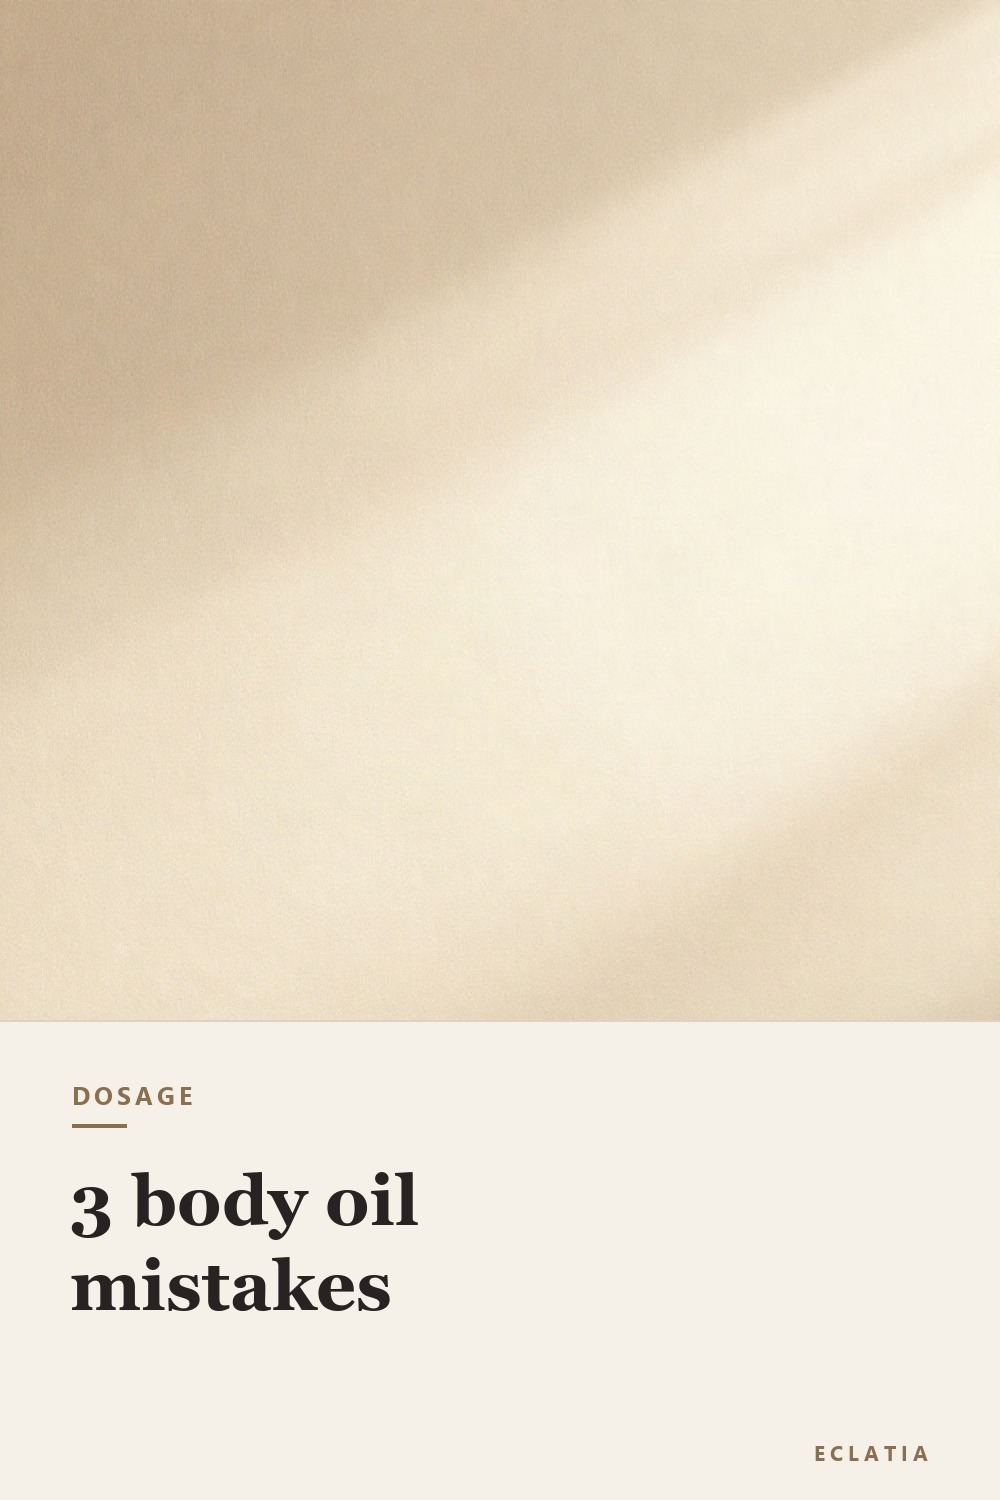
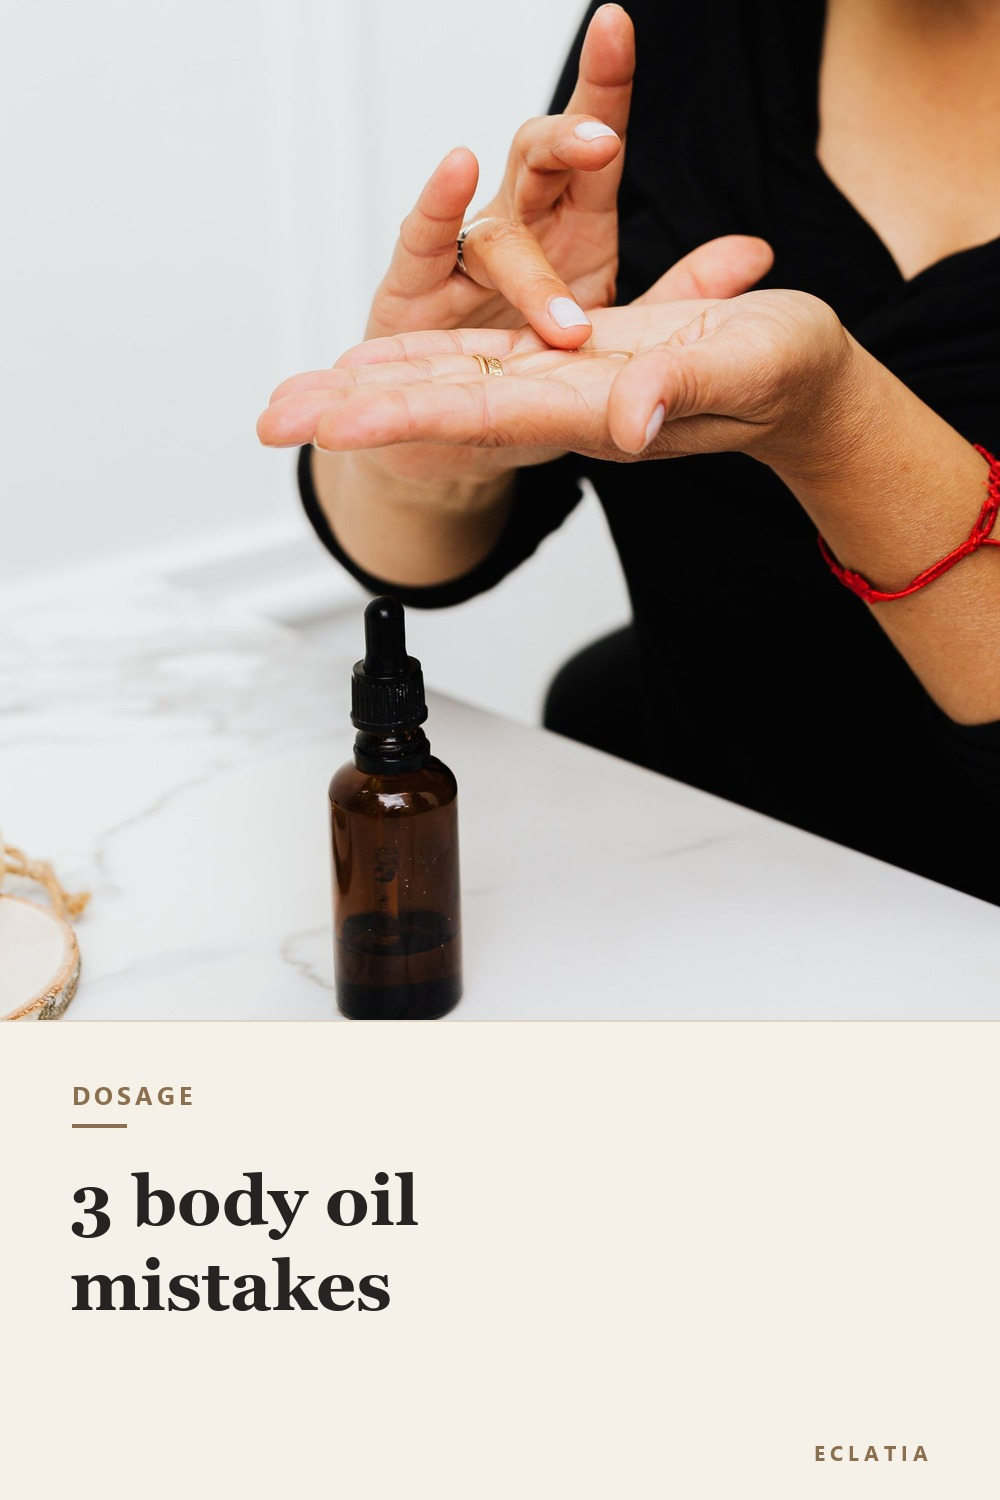
P10: visuel v2 (photo main + huile) au lieu du degrade vide

diff --git a/scripts/make_pins_p10.py b/scripts/make_pins_p10.py
@@ -1,0 +1,69 @@
+"""Compose le pin P10 (v2) : photo reelle (main + huile) au lieu du degrade vide.
+
+L'ancien visuel P10 etait un simple degrade beige : joli mais muet, il ne disait
+pas de quoi parlait le pin. Ici la photo montre une main qui recoit quelques
+gouttes d'huile d'un flacon ambre : c'est exactement le sujet du pin (le dosage).
+
+Aucune marque lisible sur la photo (flacon ambre uni, sans etiquette).
+
+Entree  : visuels/body-oil/base-P10.jpg  (Pexels 4959973, 1600 x 2400)
+Sortie  : visuels/body-oil/pin-P10.jpg + pin-P10.png (1000 x 1500)
+"""
+import os
+
+from PIL import Image, ImageDraw, ImageFont
+
+from make_pins_body_oil import ACCENT, CREAM, H, INK, LINE, SEGOE_B, W, fit_font, spaced
+
+BASE = os.path.join("docs", "contenus-a-valider", "visuels", "body-oil")
+PANEL_H = 480
+KICKER = "DOSAGE"
+LINES = ["3 body oil", "mistakes"]
+
+
+def crop_fill(img, w, h, top_frac=0.5):
+    r = max(w / img.width, h / img.height)
+    im = img.resize((round(img.width * r), round(img.height * r)), Image.LANCZOS)
+    left = (im.width - w) // 2
+    top = round((im.height - h) * top_frac)
+    top = max(0, min(top, im.height - h))
+    return im.crop((left, top, left + w, top + h))
+
+
+def build():
+    photo = crop_fill(
+        Image.open(os.path.join(BASE, "base-P10.jpg")).convert("RGB"), W, H - PANEL_H, 0.78
+    )
+    canvas = Image.new("RGB", (W, H), CREAM)
+    canvas.paste(photo, (0, 0))
+    d = ImageDraw.Draw(canvas)
+
+    d.rectangle([0, H - PANEL_H, W, H], fill=CREAM)
+    d.rectangle([0, H - PANEL_H, W, H - PANEL_H + 1], fill=LINE)
+
+    x = 72
+    spaced(d, (x, H - PANEL_H + 58), KICKER, ImageFont.truetype(SEGOE_B, 25), ACCENT, 4)
+    d.rectangle([x, H - PANEL_H + 104, x + 54, H - PANEL_H + 107], fill=ACCENT)
+
+    f, size = fit_font(d, LINES, W - 2 * x)
+    lh = round(size * 1.22)
+    y = H - PANEL_H + 140
+    for line in LINES:
+        d.text((x - 2, y), line, font=f, fill=INK)
+        y += lh
+
+    fs = ImageFont.truetype(SEGOE_B, 21)
+    label = "ECLATIA"
+    tw = sum(d.textlength(c, font=fs) + 5 for c in label) - 5
+    spaced(d, (W - x - tw, H - 62), label, fs, ACCENT, 5)
+
+    jpg = os.path.join(BASE, "pin-P10.jpg")
+    canvas.save(jpg, quality=92, optimize=True)
+    png = os.path.join(BASE, "pin-P10.png")
+    canvas.save(png, optimize=True)
+    print("ok", jpg, canvas.size, os.path.getsize(jpg) // 1024, "Ko")
+    print("ok", png, os.path.getsize(png) // 1024, "Ko")
+
+
+if __name__ == "__main__":
+    build()

diff --git a/docs/contenus-a-valider/pins/P10-a-publier.md b/docs/contenus-a-valider/pins/P10-a-publier.md
@@ -9,13 +9,25 @@
 
 | Champ | Valeur |
 |---|---|
-| **Image** | `docs/contenus-a-valider/visuels/body-oil/pin-P10.jpg` — 1000 × 1500 (2:3) |
+| **Image** | `docs/contenus-a-valider/visuels/body-oil/pin-P10.jpg` — 1000 × 1500 (2:3) · copie PNG : `pin-P10.png` |
 | **Titre** | `3 Body Oil Mistakes That Cancel the Benefit` |
 | **Description** | `Oil on dry skin. Lotion on top of the oil. Far too much product. Three habits that leave the surface greasy while the skin stays tight underneath, and the order that fixes it: lotion first, on damp skin, then a thin layer of oil only where it pulls. #bodyoil #dryskin #bodycare` |
 | **Lien** | `https://guide-beaute.pages.dev/guides/body-oil-before-or-after-lotion/?utm_source=Pinterest&utm_medium=organic&utm_campaign=P10` |
 | **Tableau** | `Body Care & Dry Skin` |
 | **Tagged topics** | Body Care · Dry Skin · Beauty Tips |
-| **Alt** | `Title card reading "3 body oil mistakes" on a cream background, Eclatia.` |
+| **Alt** | `A hand catching a few drops of oil from an amber dropper bottle on a marble surface.` |
+
+---
+
+## Le visuel (v2, photo réelle)
+
+L'ancienne image était un simple dégradé beige : il ne disait pas de quoi parlait le pin.
+La nouvelle montre une main qui reçoit quelques gouttes d'huile d'un flacon ambre — c'est
+littéralement le sujet du pin (le dosage).
+
+- Photo : Pexels 4959973, flacon sans étiquette, **aucune marque lisible** (vérifié en zoom)
+- Texte inchangé : `DOSAGE` / « 3 body oil mistakes » / signature ECLATIA
+- Script : `scripts/make_pins_p10.py` (source `base-P10.jpg`)
 
 ---
 
